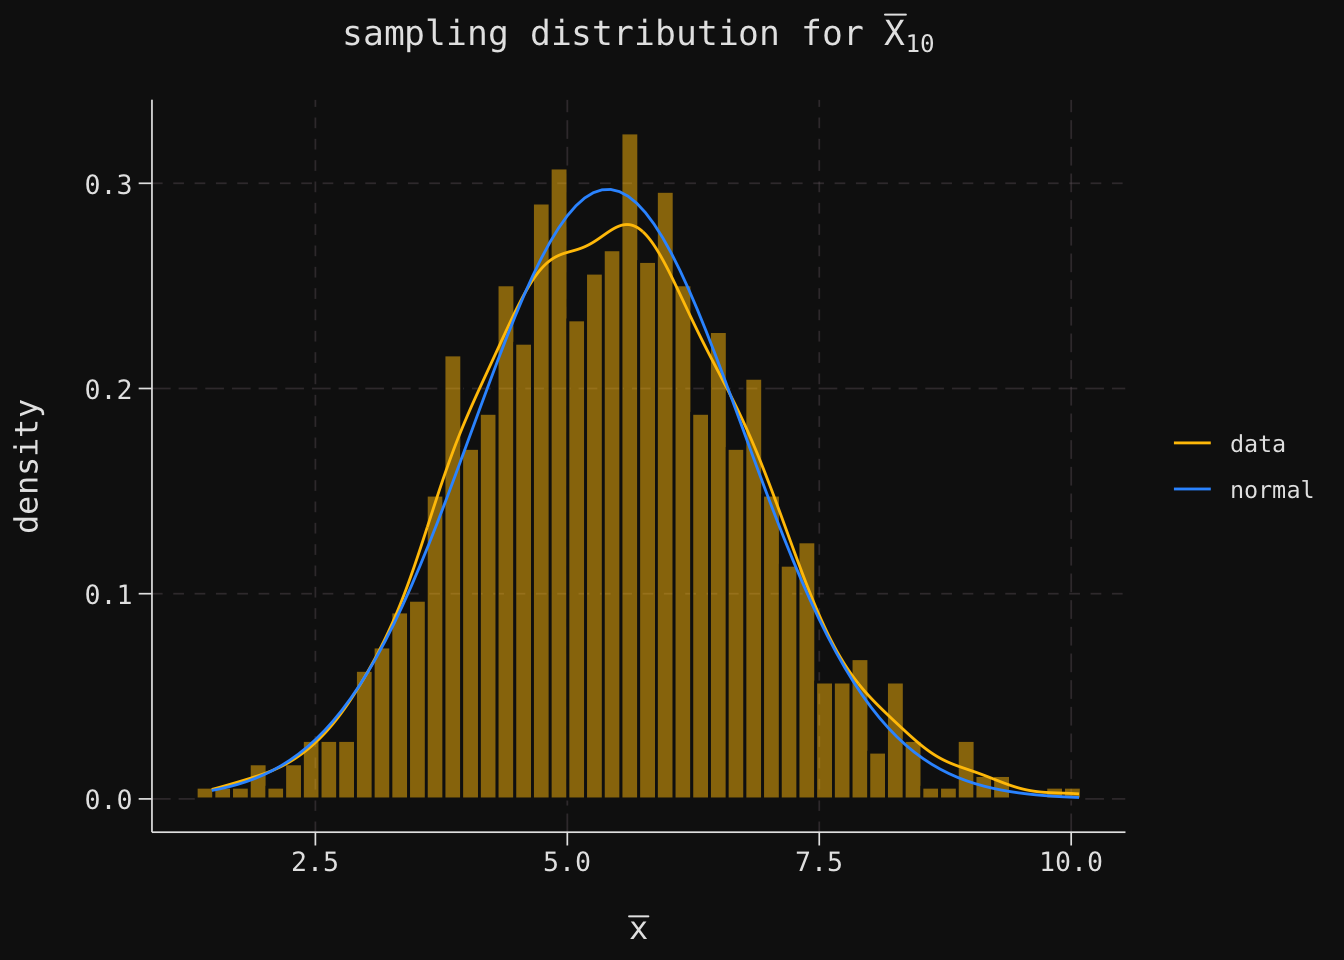
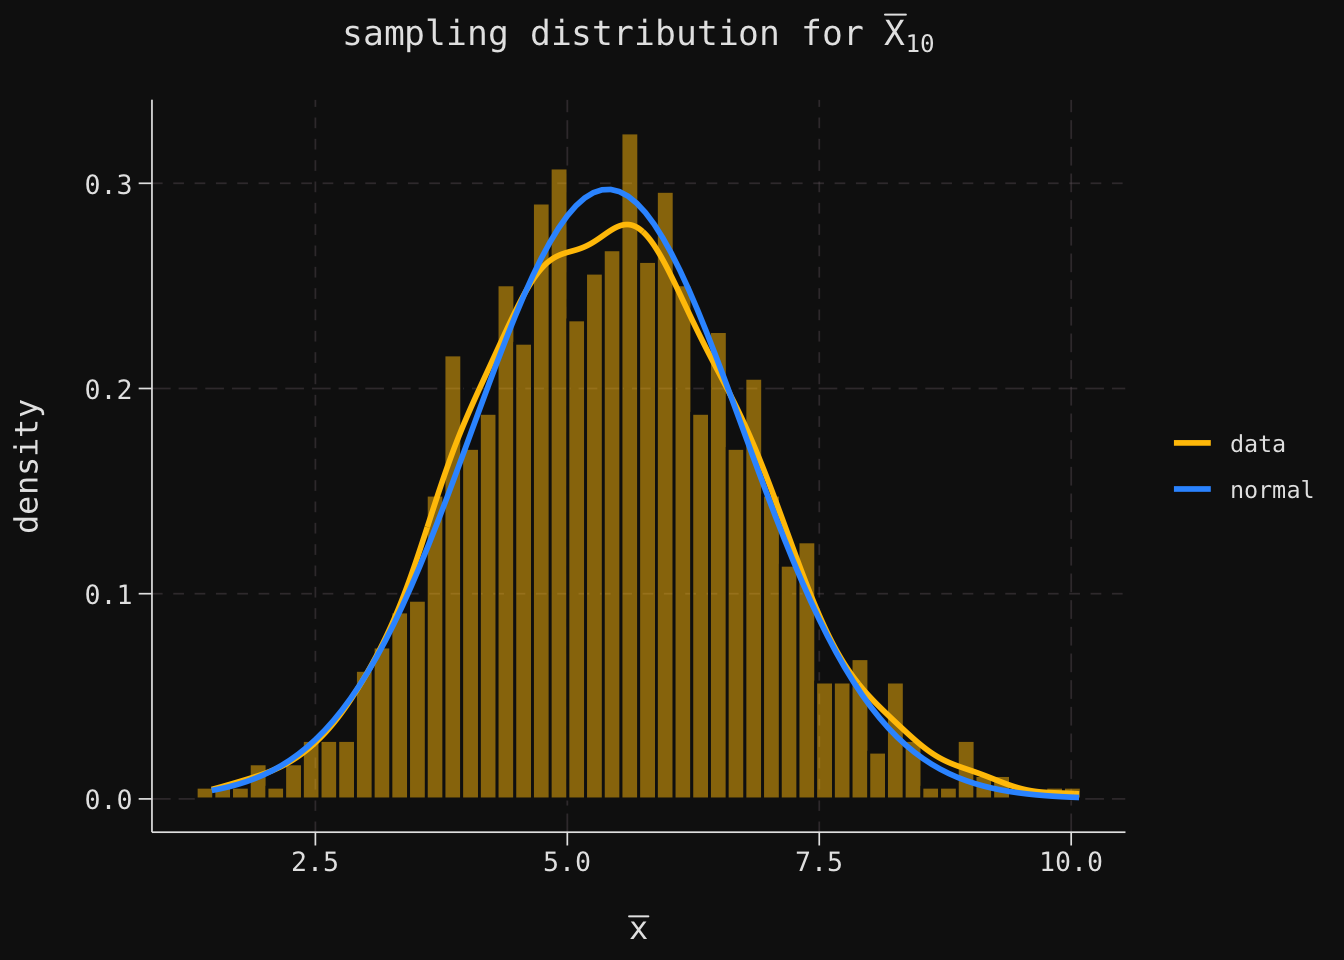
Built site for gh-pages

diff --git a/posts/shiny-clt/index.html b/posts/shiny-clt/index.html
@@ -252,7 +252,7 @@ pre > code.sourceCode > span > a:first-child::before { text-decoration: underlin
 <span id="cb1-13"><a href="#cb1-13" aria-hidden="true" tabindex="-1"></a>}</span>
 <span id="cb1-14"><a href="#cb1-14" aria-hidden="true" tabindex="-1"></a></span>
 <span id="cb1-15"><a href="#cb1-15" aria-hidden="true" tabindex="-1"></a><span class="fu">ggplot</span>(<span class="fu">data.frame</span>(<span class="at">x =</span> <span class="fu">c</span>(<span class="sc">-</span><span class="dv">4</span>, <span class="dv">14</span>)), <span class="fu">aes</span>(x)) <span class="sc">+</span></span>
-<span id="cb1-16"><a href="#cb1-16" aria-hidden="true" tabindex="-1"></a>  <span class="fu">stat_function</span>(<span class="at">fun =</span> pdf, <span class="at">color =</span> yellow) <span class="sc">+</span></span>
+<span id="cb1-16"><a href="#cb1-16" aria-hidden="true" tabindex="-1"></a>  <span class="fu">stat_function</span>(<span class="at">fun =</span> pdf, <span class="at">color =</span> yellow, <span class="at">linewidth =</span> <span class="dv">1</span>, <span class="at">n =</span> <span class="dv">250</span>) <span class="sc">+</span></span>
 <span id="cb1-17"><a href="#cb1-17" aria-hidden="true" tabindex="-1"></a>  <span class="fu">labs</span>(<span class="at">y =</span> <span class="st">"density"</span>, <span class="at">title =</span> <span class="st">"data distribution"</span>)</span></code></pre></div><button title="Copy to Clipboard" class="code-copy-button"><i class="bi"></i></button></div>
 </details>
 <div class="cell-output-display">
@@ -296,23 +296,27 @@ pre > code.sourceCode > span > a:first-child::before { text-decoration: underlin
 <span id="cb2-27"><a href="#cb2-27" aria-hidden="true" tabindex="-1"></a>      <span class="at">alpha =</span> <span class="fl">0.5</span>,</span>
 <span id="cb2-28"><a href="#cb2-28" aria-hidden="true" tabindex="-1"></a>      <span class="at">fill =</span> yellow</span>
 <span id="cb2-29"><a href="#cb2-29" aria-hidden="true" tabindex="-1"></a>    ) <span class="sc">+</span></span>
-<span id="cb2-30"><a href="#cb2-30" aria-hidden="true" tabindex="-1"></a>    <span class="fu">stat_density</span>(<span class="fu">aes</span>(<span class="at">color =</span> <span class="st">"data"</span>), <span class="at">geom =</span> <span class="st">"line"</span>) <span class="sc">+</span></span>
-<span id="cb2-31"><a href="#cb2-31" aria-hidden="true" tabindex="-1"></a>    <span class="fu">stat_function</span>(</span>
-<span id="cb2-32"><a href="#cb2-32" aria-hidden="true" tabindex="-1"></a>      <span class="fu">aes</span>(<span class="at">color =</span> <span class="st">"normal"</span>),</span>
-<span id="cb2-33"><a href="#cb2-33" aria-hidden="true" tabindex="-1"></a>      <span class="at">fun =</span> <span class="cf">function</span>(x) <span class="fu">dnorm</span>(x, <span class="at">mean =</span> mu, <span class="at">sd =</span> sigma),    </span>
-<span id="cb2-34"><a href="#cb2-34" aria-hidden="true" tabindex="-1"></a>    ) <span class="sc">+</span> </span>
-<span id="cb2-35"><a href="#cb2-35" aria-hidden="true" tabindex="-1"></a>    <span class="fu">scale_color_manual</span>(</span>
-<span id="cb2-36"><a href="#cb2-36" aria-hidden="true" tabindex="-1"></a>      <span class="at">name =</span> <span class="cn">NULL</span>,</span>
-<span id="cb2-37"><a href="#cb2-37" aria-hidden="true" tabindex="-1"></a>      <span class="at">values =</span> <span class="fu">c</span>(<span class="st">"data"</span> <span class="ot">=</span> yellow, <span class="st">"normal"</span> <span class="ot">=</span> blue)</span>
-<span id="cb2-38"><a href="#cb2-38" aria-hidden="true" tabindex="-1"></a>    ) <span class="sc">+</span></span>
-<span id="cb2-39"><a href="#cb2-39" aria-hidden="true" tabindex="-1"></a>    <span class="fu">labs</span>(</span>
-<span id="cb2-40"><a href="#cb2-40" aria-hidden="true" tabindex="-1"></a>      <span class="at">x =</span> <span class="fu">TeX</span>(<span class="st">"$</span><span class="sc">\\</span><span class="st">bar{x}$"</span>),</span>
-<span id="cb2-41"><a href="#cb2-41" aria-hidden="true" tabindex="-1"></a>      <span class="at">title =</span> <span class="fu">TeX</span>(<span class="fu">paste0</span>(<span class="st">"sampling distribution for $</span><span class="sc">\\</span><span class="st">bar{X}_{"</span>, n.sample, <span class="st">"}$"</span>))</span>
-<span id="cb2-42"><a href="#cb2-42" aria-hidden="true" tabindex="-1"></a>    )</span>
-<span id="cb2-43"><a href="#cb2-43" aria-hidden="true" tabindex="-1"></a></span>
-<span id="cb2-44"><a href="#cb2-44" aria-hidden="true" tabindex="-1"></a>}</span>
-<span id="cb2-45"><a href="#cb2-45" aria-hidden="true" tabindex="-1"></a></span>
-<span id="cb2-46"><a href="#cb2-46" aria-hidden="true" tabindex="-1"></a><span class="fu">plot.sampling.dist</span>(<span class="at">n.sample =</span> <span class="dv">3</span>)</span></code></pre></div><button title="Copy to Clipboard" class="code-copy-button"><i class="bi"></i></button></div>
+<span id="cb2-30"><a href="#cb2-30" aria-hidden="true" tabindex="-1"></a>    <span class="fu">stat_density</span>(</span>
+<span id="cb2-31"><a href="#cb2-31" aria-hidden="true" tabindex="-1"></a>      <span class="fu">aes</span>(<span class="at">color =</span> <span class="st">"data"</span>),</span>
+<span id="cb2-32"><a href="#cb2-32" aria-hidden="true" tabindex="-1"></a>      <span class="at">geom =</span> <span class="st">"line"</span>,</span>
+<span id="cb2-33"><a href="#cb2-33" aria-hidden="true" tabindex="-1"></a>      <span class="at">linewidth =</span> <span class="dv">1</span></span>
+<span id="cb2-34"><a href="#cb2-34" aria-hidden="true" tabindex="-1"></a>    ) <span class="sc">+</span></span>
+<span id="cb2-35"><a href="#cb2-35" aria-hidden="true" tabindex="-1"></a>    <span class="fu">stat_function</span>(</span>
+<span id="cb2-36"><a href="#cb2-36" aria-hidden="true" tabindex="-1"></a>      <span class="fu">aes</span>(<span class="at">color =</span> <span class="st">"normal"</span>),</span>
+<span id="cb2-37"><a href="#cb2-37" aria-hidden="true" tabindex="-1"></a>      <span class="at">fun =</span> <span class="cf">function</span>(x) <span class="fu">dnorm</span>(x, <span class="at">mean =</span> mu, <span class="at">sd =</span> sigma),</span>
+<span id="cb2-38"><a href="#cb2-38" aria-hidden="true" tabindex="-1"></a>      <span class="at">linewidth =</span> <span class="dv">1</span>   </span>
+<span id="cb2-39"><a href="#cb2-39" aria-hidden="true" tabindex="-1"></a>    ) <span class="sc">+</span> </span>
+<span id="cb2-40"><a href="#cb2-40" aria-hidden="true" tabindex="-1"></a>    <span class="fu">scale_color_manual</span>(</span>
+<span id="cb2-41"><a href="#cb2-41" aria-hidden="true" tabindex="-1"></a>      <span class="at">name =</span> <span class="cn">NULL</span>,</span>
+<span id="cb2-42"><a href="#cb2-42" aria-hidden="true" tabindex="-1"></a>      <span class="at">values =</span> <span class="fu">c</span>(<span class="st">"data"</span> <span class="ot">=</span> yellow, <span class="st">"normal"</span> <span class="ot">=</span> blue)</span>
+<span id="cb2-43"><a href="#cb2-43" aria-hidden="true" tabindex="-1"></a>    ) <span class="sc">+</span></span>
+<span id="cb2-44"><a href="#cb2-44" aria-hidden="true" tabindex="-1"></a>    <span class="fu">labs</span>(</span>
+<span id="cb2-45"><a href="#cb2-45" aria-hidden="true" tabindex="-1"></a>      <span class="at">x =</span> <span class="fu">TeX</span>(<span class="st">"$</span><span class="sc">\\</span><span class="st">bar{x}$"</span>),</span>
+<span id="cb2-46"><a href="#cb2-46" aria-hidden="true" tabindex="-1"></a>      <span class="at">title =</span> <span class="fu">TeX</span>(<span class="fu">paste0</span>(<span class="st">"sampling distribution for $</span><span class="sc">\\</span><span class="st">bar{X}_{"</span>, n.sample, <span class="st">"}$"</span>))</span>
+<span id="cb2-47"><a href="#cb2-47" aria-hidden="true" tabindex="-1"></a>    )</span>
+<span id="cb2-48"><a href="#cb2-48" aria-hidden="true" tabindex="-1"></a>}</span>
+<span id="cb2-49"><a href="#cb2-49" aria-hidden="true" tabindex="-1"></a></span>
+<span id="cb2-50"><a href="#cb2-50" aria-hidden="true" tabindex="-1"></a><span class="fu">plot.sampling.dist</span>(<span class="at">n.sample =</span> <span class="dv">3</span>)</span></code></pre></div><button title="Copy to Clipboard" class="code-copy-button"><i class="bi"></i></button></div>
 </details>
 <div class="cell-output-display">
 <div class="quarto-figure quarto-figure-center">
@@ -346,6 +350,39 @@ pre > code.sourceCode > span > a:first-child::before { text-decoration: underlin
 <div class="quarto-figure quarto-figure-center">
 <figure class="figure">
 <p><img src="index_files/figure-html/unnamed-chunk-5-1.png" class="img-fluid quarto-figure quarto-figure-center figure-img" width="672"></p>
+</figure>
+</div>
+</div>
+</div>
+<div class="cell" data-layout-align="center">
+<details class="code-fold">
+<summary>Show Python code</summary>
+<div class="code-copy-outer-scaffold"><div class="sourceCode cell-code" id="cb5"><pre class="sourceCode python code-with-copy"><code class="sourceCode python"><span id="cb5-1"><a href="#cb5-1" aria-hidden="true" tabindex="-1"></a><span class="im">import</span> scipy.stats <span class="im">as</span> ss</span>
+<span id="cb5-2"><a href="#cb5-2" aria-hidden="true" tabindex="-1"></a><span class="im">import</span> matplotlib.pyplot <span class="im">as</span> plt</span>
+<span id="cb5-3"><a href="#cb5-3" aria-hidden="true" tabindex="-1"></a><span class="im">import</span> numpy <span class="im">as</span> np</span>
+<span id="cb5-4"><a href="#cb5-4" aria-hidden="true" tabindex="-1"></a></span>
+<span id="cb5-5"><a href="#cb5-5" aria-hidden="true" tabindex="-1"></a>plt.style.use(<span class="st">'../../aux-files/custom-theme.mplstyle'</span>)</span>
+<span id="cb5-6"><a href="#cb5-6" aria-hidden="true" tabindex="-1"></a></span>
+<span id="cb5-7"><a href="#cb5-7" aria-hidden="true" tabindex="-1"></a>meanlog <span class="op">=</span> <span class="dv">1</span></span>
+<span id="cb5-8"><a href="#cb5-8" aria-hidden="true" tabindex="-1"></a>sdlog <span class="op">=</span> <span class="fl">0.75</span></span>
+<span id="cb5-9"><a href="#cb5-9" aria-hidden="true" tabindex="-1"></a>X <span class="op">=</span> ss.lognorm(s<span class="op">=</span>sdlog, scale<span class="op">=</span>np.exp(meanlog))</span>
+<span id="cb5-10"><a href="#cb5-10" aria-hidden="true" tabindex="-1"></a></span>
+<span id="cb5-11"><a href="#cb5-11" aria-hidden="true" tabindex="-1"></a>lognorm_mean <span class="op">=</span> X.mean()</span>
+<span id="cb5-12"><a href="#cb5-12" aria-hidden="true" tabindex="-1"></a></span>
+<span id="cb5-13"><a href="#cb5-13" aria-hidden="true" tabindex="-1"></a>x_grid <span class="op">=</span> np.linspace(<span class="dv">0</span>, <span class="dv">13</span>, num<span class="op">=</span><span class="dv">250</span>)</span>
+<span id="cb5-14"><a href="#cb5-14" aria-hidden="true" tabindex="-1"></a></span>
+<span id="cb5-15"><a href="#cb5-15" aria-hidden="true" tabindex="-1"></a>_, ax <span class="op">=</span> plt.subplots()</span>
+<span id="cb5-16"><a href="#cb5-16" aria-hidden="true" tabindex="-1"></a>ax.plot(x_grid, X.pdf(x_grid))</span>
+<span id="cb5-17"><a href="#cb5-17" aria-hidden="true" tabindex="-1"></a>ax.set_title(<span class="st">'log-normal distribution'</span>)</span>
+<span id="cb5-18"><a href="#cb5-18" aria-hidden="true" tabindex="-1"></a>ax.set_xlabel(<span class="st">'x'</span>)</span>
+<span id="cb5-19"><a href="#cb5-19" aria-hidden="true" tabindex="-1"></a>ax.set_ylabel(<span class="st">'density'</span>)</span>
+<span id="cb5-20"><a href="#cb5-20" aria-hidden="true" tabindex="-1"></a>plt.tight_layout()</span>
+<span id="cb5-21"><a href="#cb5-21" aria-hidden="true" tabindex="-1"></a>plt.show()</span></code></pre></div><button title="Copy to Clipboard" class="code-copy-button"><i class="bi"></i></button></div>
+</details>
+<div class="cell-output-display">
+<div class="quarto-figure quarto-figure-center">
+<figure class="figure">
+<p><img src="index_files/figure-html/unnamed-chunk-6-1.png" class="img-fluid quarto-figure quarto-figure-center figure-img" width="672"></p>
 </figure>
 </div>
 </div>

diff --git a/writings.html b/writings.html
@@ -338,7 +338,7 @@ Sep 27, 2025
 </a>
 </div>
 </div>
[2 lines of base64/hex data omitted]
 <div class="thumbnail"><a href="./posts/shiny-clt/index.html" class="no-external">
 
 <img loading="lazy" src="./posts/shiny-clt/thumbnail.png" class="thumbnail-image">
